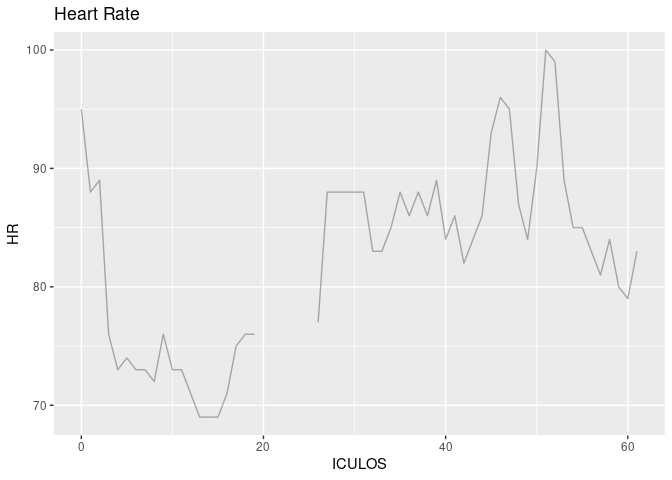
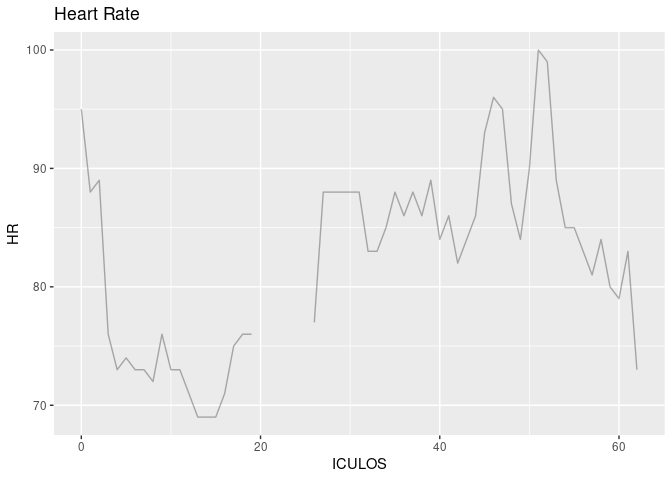
Updated report

diff --git a/A7.md b/A7.md
@@ -21,7 +21,7 @@ most_recent_data <- new_data %>%
 
 Date and time of the report
 
-    [1] "2023-04-09 06:15:16 UTC"
+    [1] "2023-04-09 07:11:51 UTC"
 
 Patient who have sepsis right now
 
@@ -33,7 +33,7 @@ most_recent_data %>% filter(SepsisLabel == 1) %>% select(PatientID, HR, Temp, Re
     # Groups:   PatientID [1]
       PatientID    HR  Temp  Resp
       <chr>     <dbl> <dbl> <dbl>
-    1 000346       83    NA    16
+    1 000346       73    NA    17
 
 Plots for patients who have sepsis
 
@@ -87,7 +87,7 @@ Table <- new_data %>%
      1 000073         -4    NA             2
      2 000135         10     0.100         0
      3 000287         NA    NA            NA
-     4 000346          4    NA            -2
+     4 000346        -10    NA             1
      5 000617         NA    NA            NA
      6 001145          1    -0.200        -2
      7 001467        -13    NA             3
@@ -115,7 +115,7 @@ Table <- new_data %>%
     29 004089         NA    NA            NA
     30 004246         NA    NA            NA
     31 004331        -15    NA            -2
-    32 004694         -4    -0.100         2
+    32 004694         -1     0            -3
     33 004753          3     0.100         0
     34 004853        -24    NA             0
     35 005001         11    NA            -2
